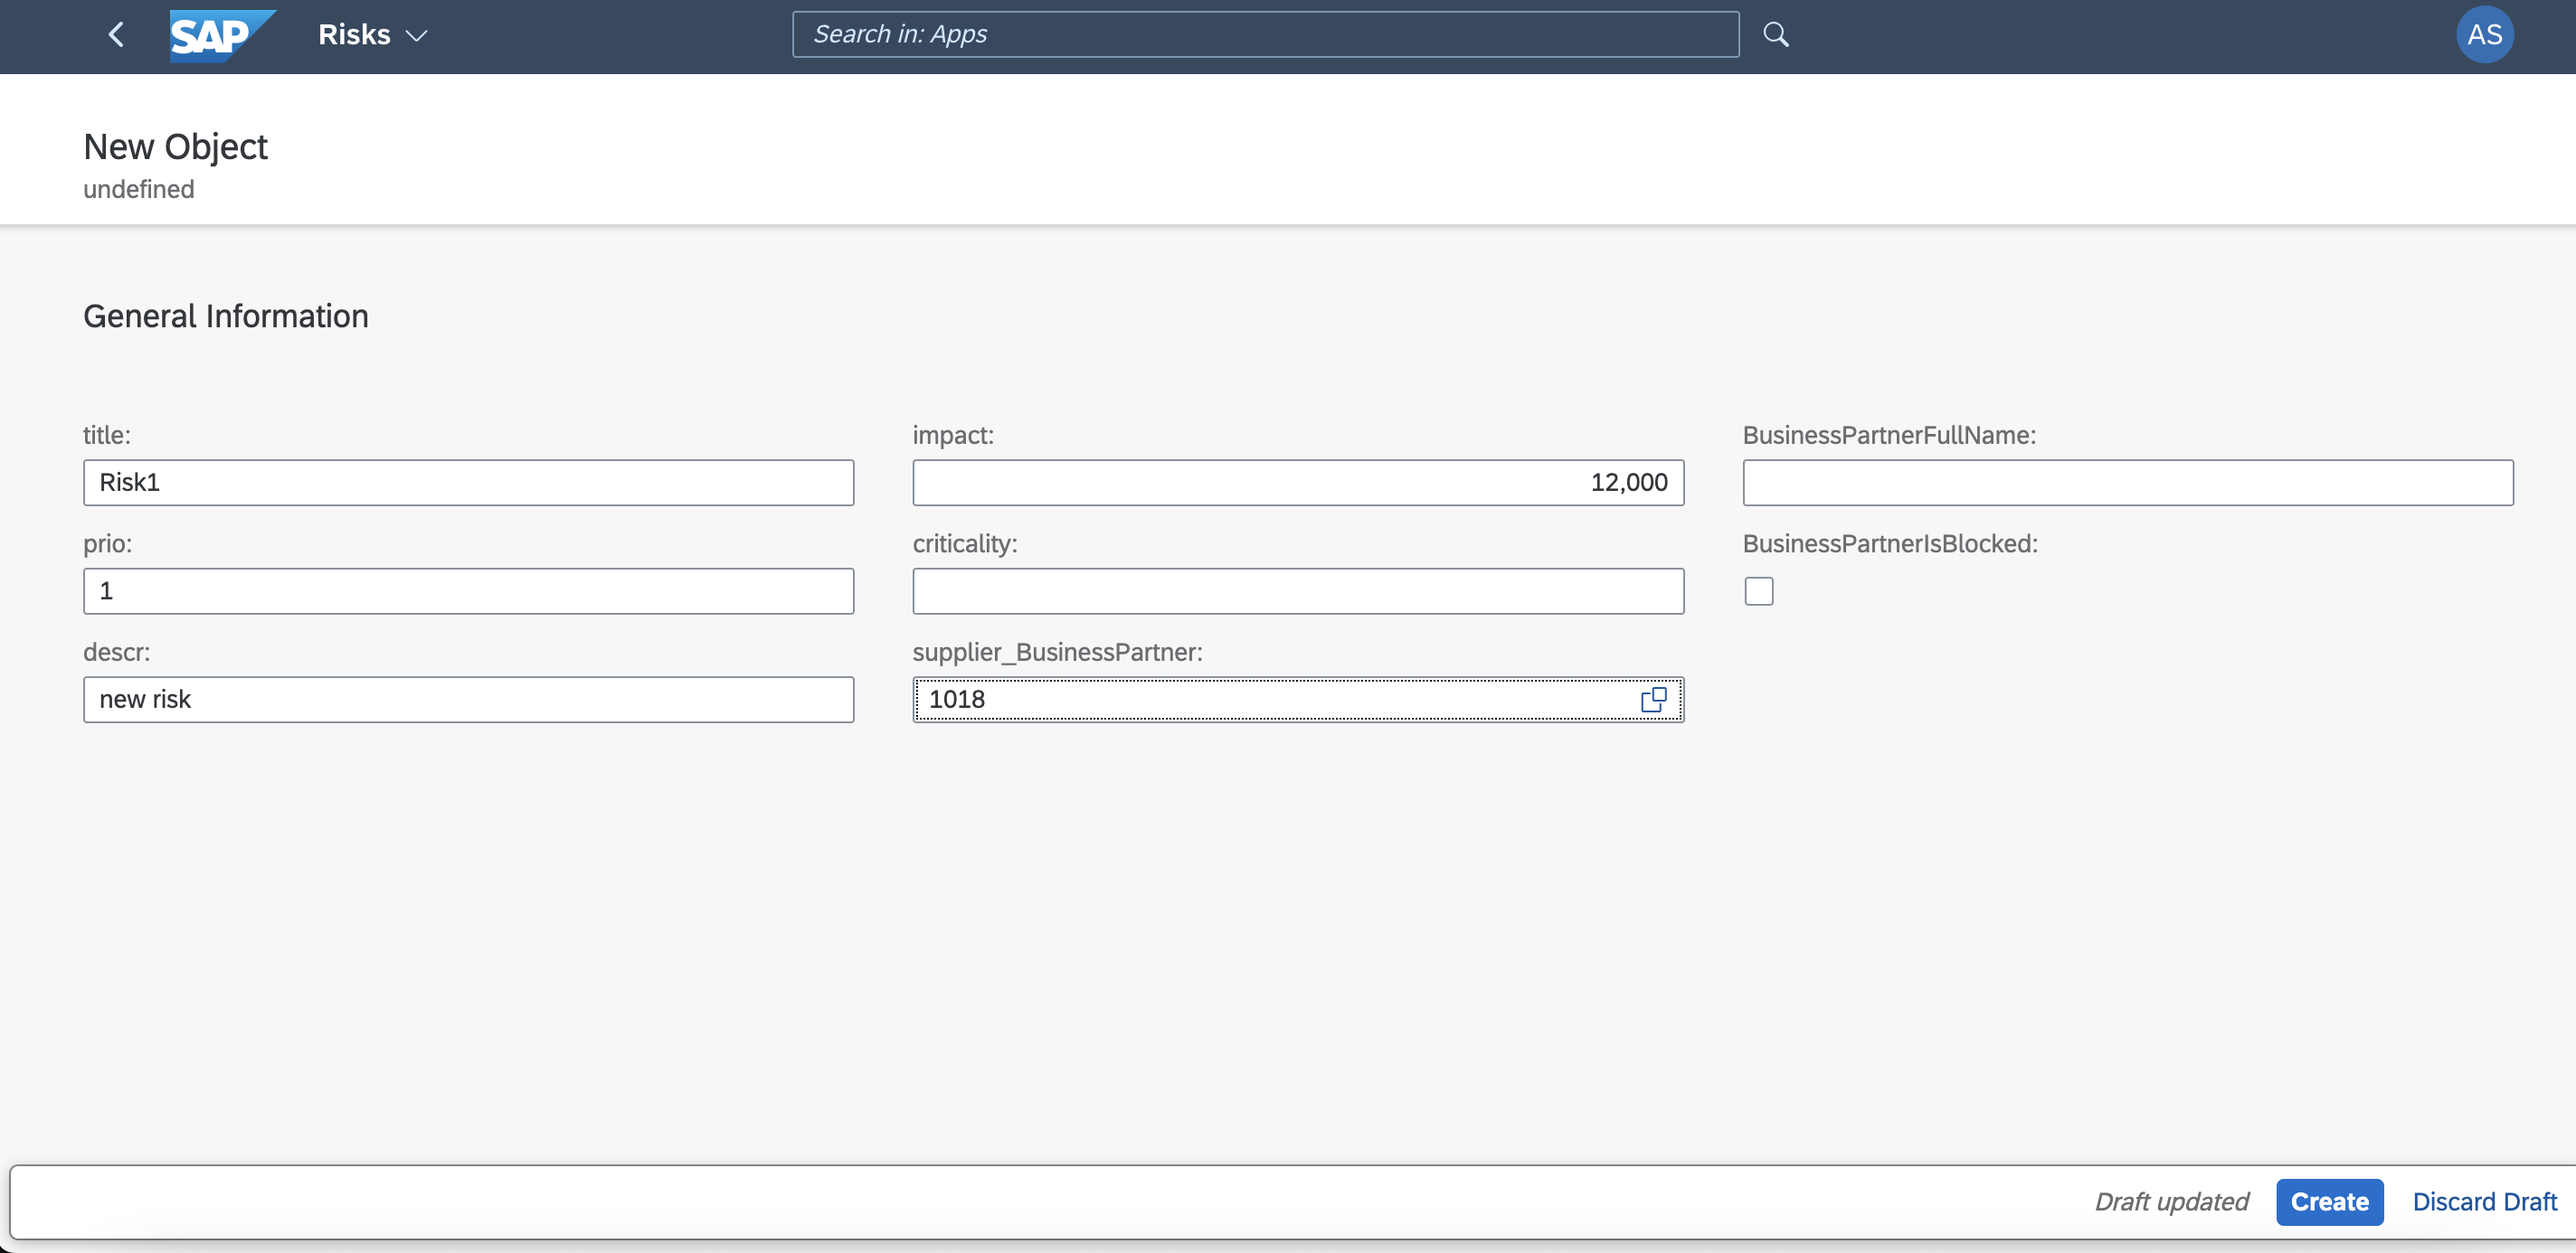
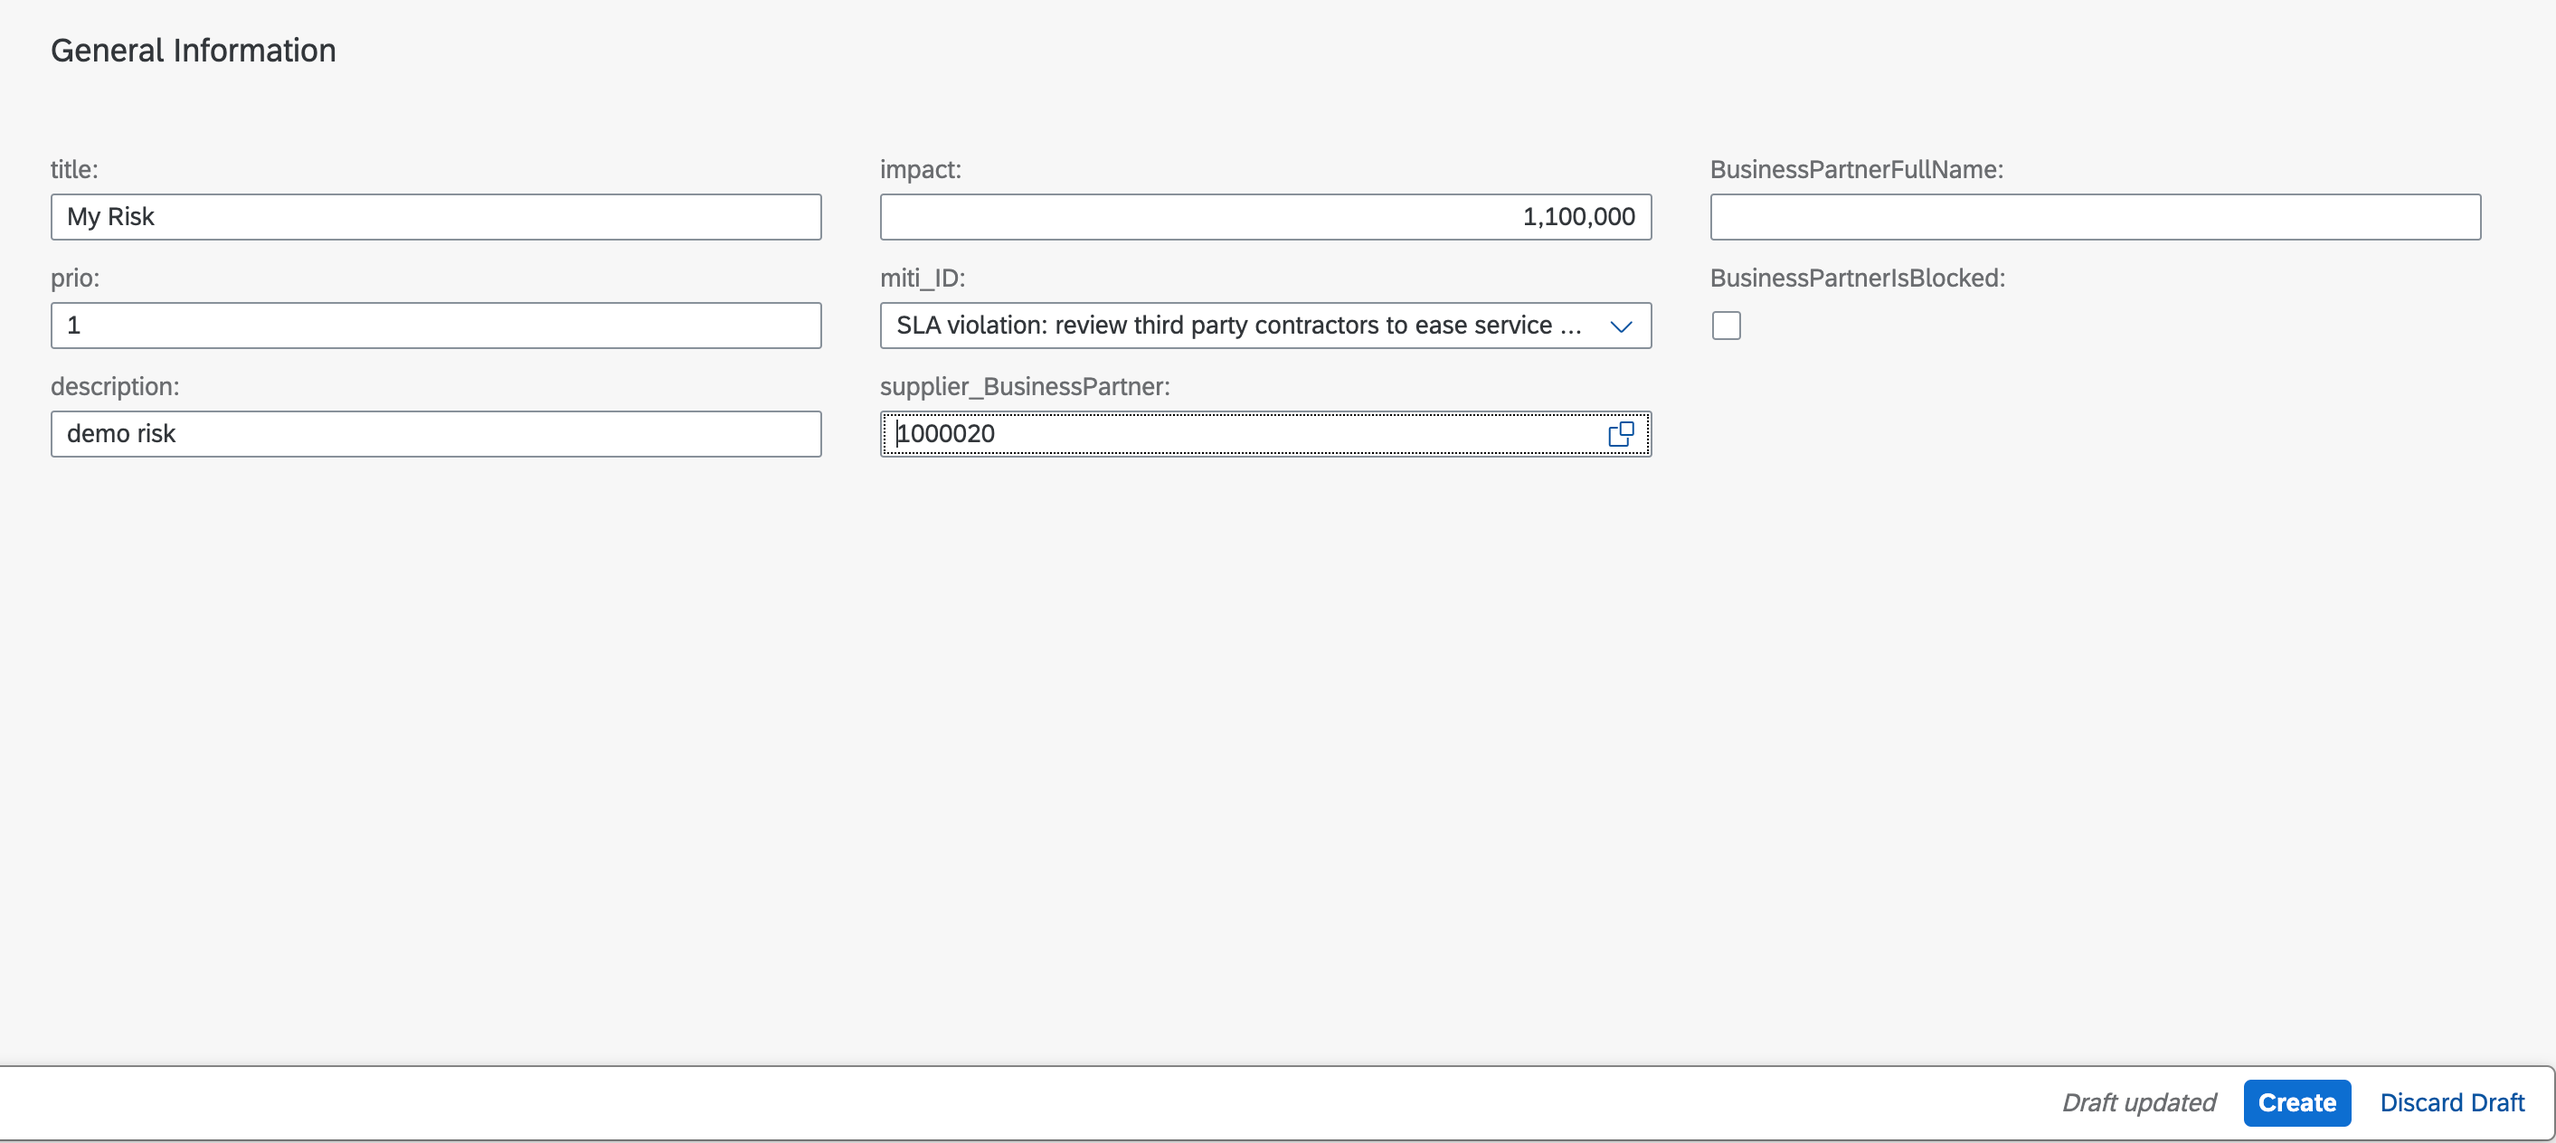
update mission

diff --git a/documentation/workshop/develop/integrate-with-launchpad/README.md b/documentation/workshop/develop/integrate-with-launchpad/README.md
@@ -77,7 +77,7 @@ In this section, the application will be connected with SAP Launchpad service. T
 
     <img src="././images/risk_2.png" width="50%">
 
-- Choose value help icon to select supplier_BusinessPartner
+- Choose value help icon to select supplier_BusinessPartner, miti_ID
 
 - Choose mitigation
 
